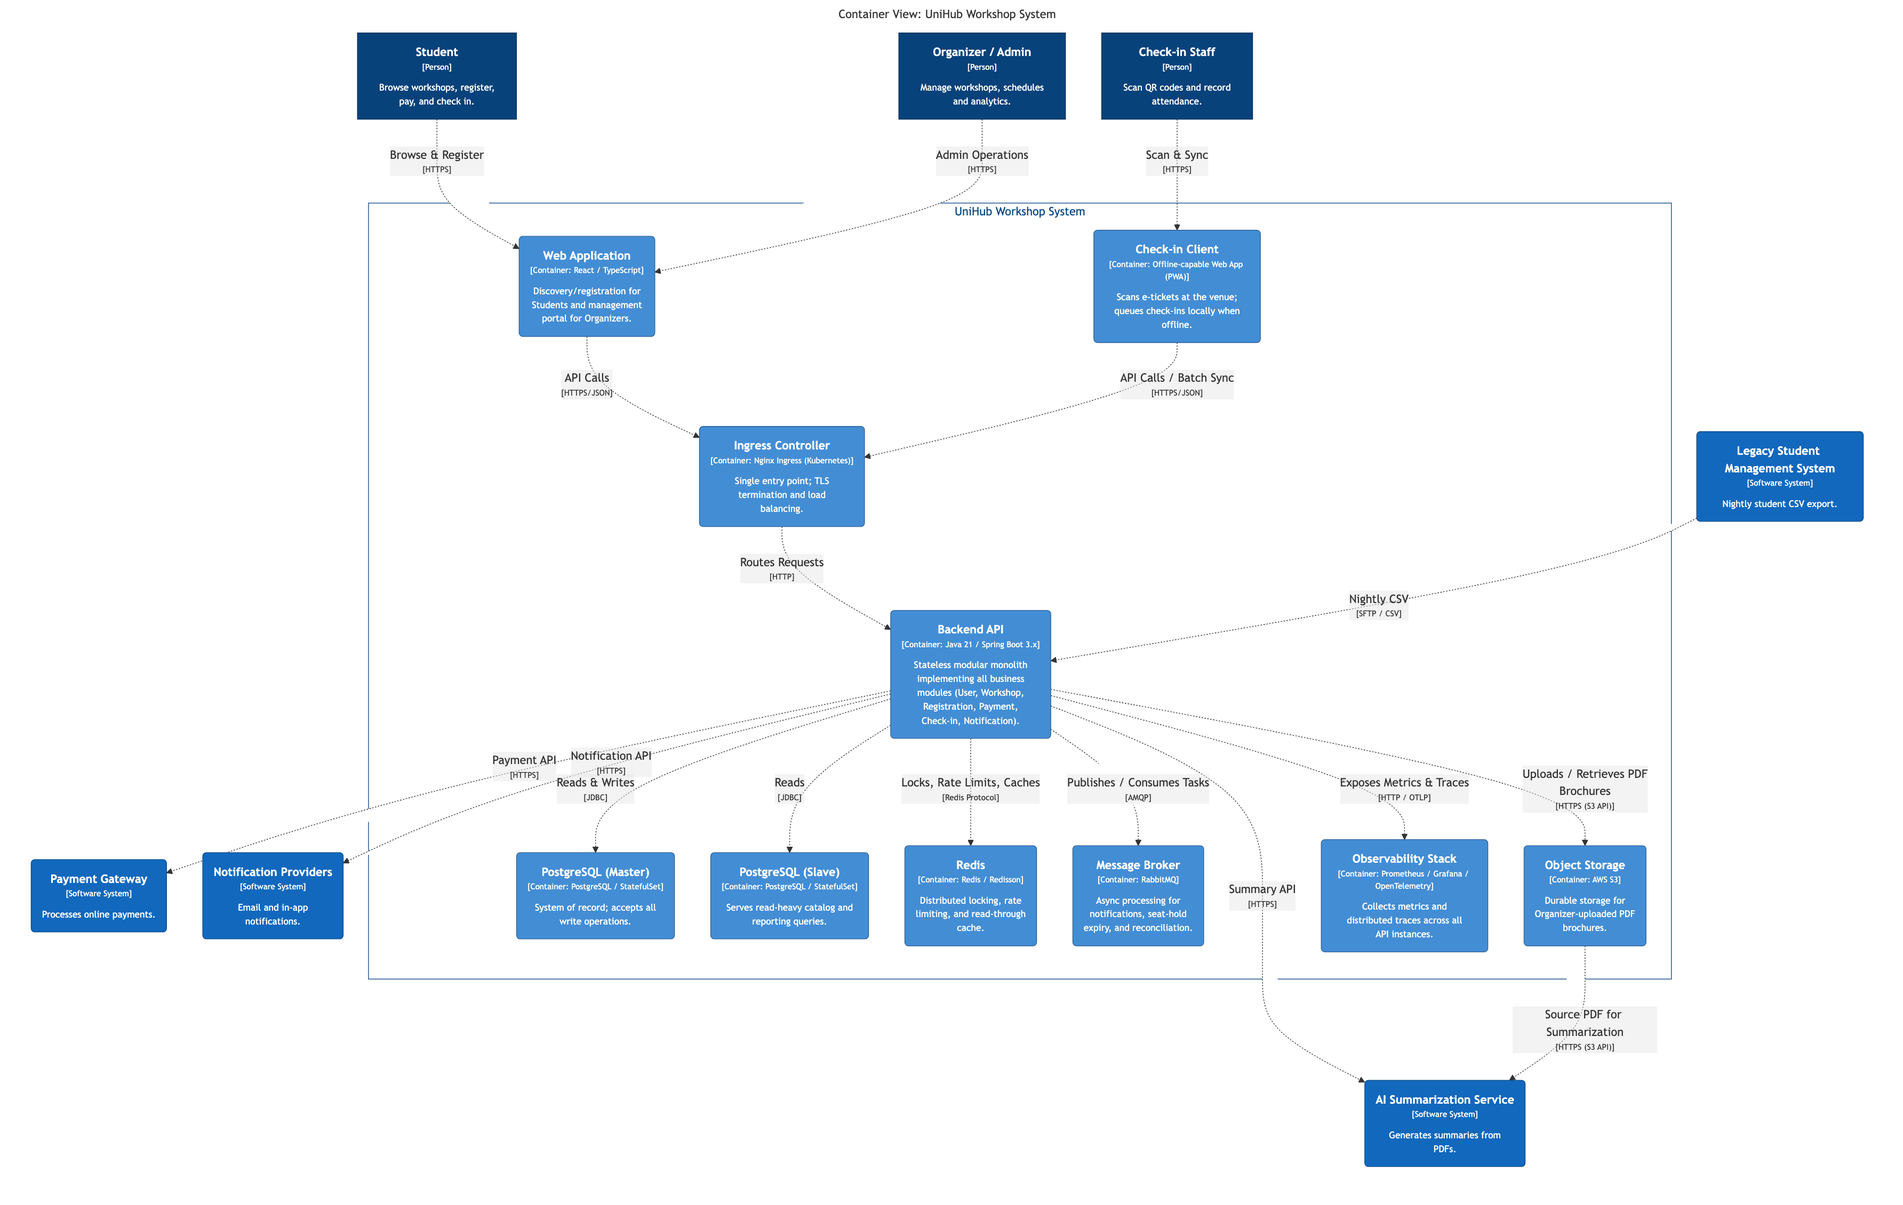
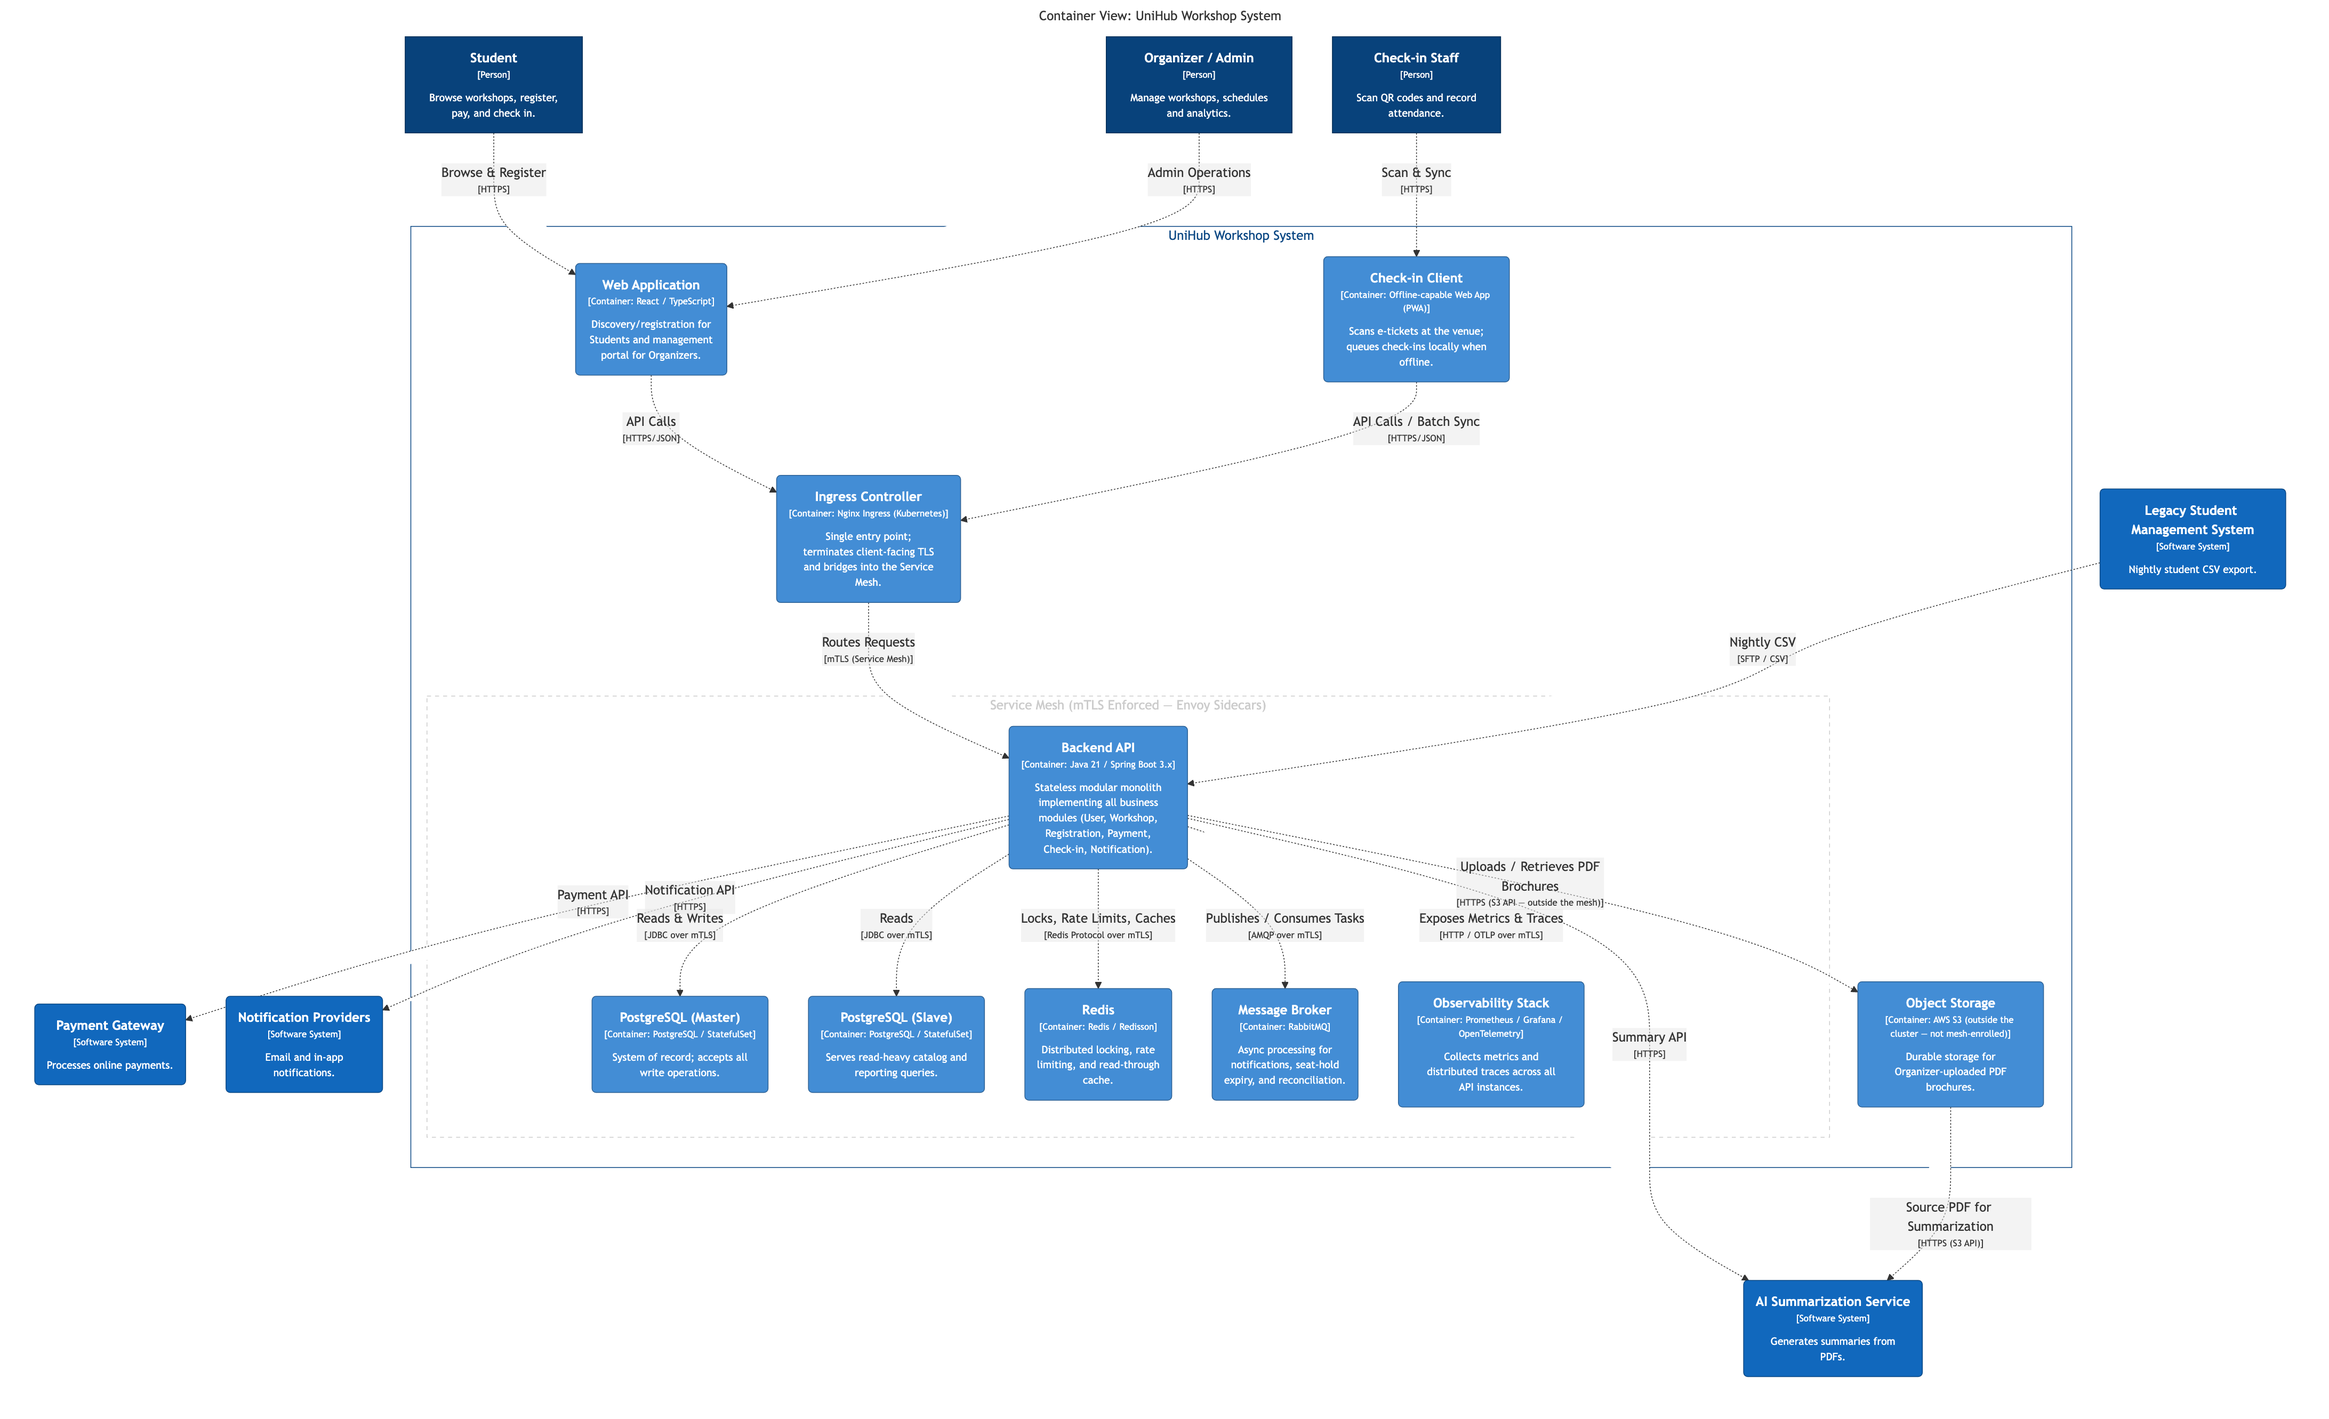
docs(proposal): add service mesh to system

diff --git a/blueprint/proposal.md b/blueprint/proposal.md
@@ -192,17 +192,18 @@ At a component level:
 
 This section explains the major architectural decisions behind the system, the alternatives considered, and the reasoning behind each choice. Specific product/library selections are included because they are the concrete expression of each decision, not because this document is an implementation guide.
 
-| Decision                                                                              | Alternative Considered                                             | Reason                                                                                                                                                                                                                                                                              |
-| :------------------------------------------------------------------------------------ | :----------------------------------------------------------------- | :---------------------------------------------------------------------------------------------------------------------------------------------------------------------------------------------------------------------------------------------------------------------------------- |
-| **Stateless Modular Monolith** (Java 21 / Spring Boot 3.x)                            | Microservices from day one                                         | A single, well-modularized service is significantly faster to build and operate correctly at this project's scope, while the module boundaries keep the door open to splitting into microservices later if the system's scale or team structure warrants it.                        |
-| **Relational database with a single write authority and read replicas** (PostgreSQL)  | A NoSQL document store                                             | The system's core correctness requirements — no double-booked seats, no duplicate payments — depend on strong transactional guarantees that a relational database provides more directly than most NoSQL alternatives.                                                              |
-| **A shared coordination and caching layer** (Redis)                                   | Relying on in-process/local locking only                           | Because the system runs as multiple parallel instances, any coordination mechanism (such as a lock on seat availability) must be visible to all instances at once — a local, in-process lock cannot provide that.                                                                   |
-| **An asynchronous task queue** (RabbitMQ)                                             | Handling all background work synchronously or via periodic polling | Seat-hold expiry and notification delivery are time-sensitive but should not block the request that triggered them; a message queue lets this work happen reliably in the background instead.                                                                                       |
-| **Container orchestration platform** (Kubernetes, run locally via Minikube)           | Docker Compose                                                     | The project's reliability goals — automatic recovery from instance failure, and running multiple instances of both the application and the database — are native capabilities of an orchestration platform, and are the intended target environment even at proof-of-concept scale. |
-| **Structured observability stack** (metrics dashboards + distributed request tracing) | Relying on application logs only                                   | At the target scale, diagnosing an issue from logs alone across many parallel instances is impractical; dashboards and request-level tracing are necessary to understand system behavior during a live registration peak.                                                           |
-| **Fault-isolation around the payment gateway** (circuit breaker pattern)              | Calling the gateway directly with retries only                     | The SRS explicitly requires that a payment gateway outage must not degrade unrelated functionality; a fault-isolation mechanism is the standard way to contain that failure to the payment path only.                                                                               |
-| **Managed object storage for uploaded files** (AWS S3)                                | Storing PDF brochures as BLOBs in PostgreSQL                       | Large binary files degrade database performance and bloat backups; a dedicated object store keeps the transactional database focused on structured data while giving the AI summarization step direct, durable access to the source file.                                          |
-| **Integration testing against real infrastructure** (containerized test dependencies) | In-memory test substitutes                                         | The behaviors that matter most (locking, transaction isolation) are specific to the real database and coordination layer; an in-memory substitute would not reliably exercise these behaviors.                                                                                      |
+| Decision                                                                              | Alternative Considered                                                              | Reason                                                                                                                                                                                                                                                                              |
+| :------------------------------------------------------------------------------------ | :---------------------------------------------------------------------------------- | :---------------------------------------------------------------------------------------------------------------------------------------------------------------------------------------------------------------------------------------------------------------------------------- |
+| **Stateless Modular Monolith** (Java 21 / Spring Boot 3.x)                            | Microservices from day one                                                          | A single, well-modularized service is significantly faster to build and operate correctly at this project's scope, while the module boundaries keep the door open to splitting into microservices later if the system's scale or team structure warrants it.                        |
+| **Relational database with a single write authority and read replicas** (PostgreSQL)  | A NoSQL document store                                                              | The system's core correctness requirements — no double-booked seats, no duplicate payments — depend on strong transactional guarantees that a relational database provides more directly than most NoSQL alternatives.                                                              |
+| **A shared coordination and caching layer** (Redis)                                   | Relying on in-process/local locking only                                            | Because the system runs as multiple parallel instances, any coordination mechanism (such as a lock on seat availability) must be visible to all instances at once — a local, in-process lock cannot provide that.                                                                   |
+| **An asynchronous task queue** (RabbitMQ)                                             | Handling all background work synchronously or via periodic polling                  | Seat-hold expiry and notification delivery are time-sensitive but should not block the request that triggered them; a message queue lets this work happen reliably in the background instead.                                                                                       |
+| **Container orchestration platform** (Kubernetes, run locally via Minikube)           | Docker Compose                                                                      | The project's reliability goals — automatic recovery from instance failure, and running multiple instances of both the application and the database — are native capabilities of an orchestration platform, and are the intended target environment even at proof-of-concept scale. |
+| **Structured observability stack** (metrics dashboards + distributed request tracing) | Relying on application logs only                                                    | At the target scale, diagnosing an issue from logs alone across many parallel instances is impractical; dashboards and request-level tracing are necessary to understand system behavior during a live registration peak.                                                           |
+| **Fault-isolation around the payment gateway** (circuit breaker pattern)              | Calling the gateway directly with retries only                                      | The SRS explicitly requires that a payment gateway outage must not degrade unrelated functionality; a fault-isolation mechanism is the standard way to contain that failure to the payment path only.                                                                               |
+| **Managed object storage for uploaded files** (AWS S3)                                | Storing PDF brochures as BLOBs in PostgreSQL                                        | Large binary files degrade database performance and bloat backups; a dedicated object store keeps the transactional database focused on structured data while giving the AI summarization step direct, durable access to the source file.                                           |
+| **Zero-Trust internal network via Service Mesh** (Istio + Envoy sidecar proxies)      | Trusting the cluster network as an implicit boundary (unencrypted internal traffic) | The SRS only requires encryption for client-facing traffic; this goes beyond that baseline deliberately, to demonstrate a defense-in-depth security posture as part of this project's portfolio scope — accepting the added resource and latency cost in exchange.                  |
+| **Integration testing against real infrastructure** (containerized test dependencies) | In-memory test substitutes                                                          | The behaviors that matter most (locking, transaction isolation) are specific to the real database and coordination layer; an in-memory substitute would not reliably exercise these behaviors.                                                                                      |
 
 ---
 
@@ -290,13 +291,13 @@ The project is delivered incrementally, with each phase building on a working sy
 
 ## 16. Risk Assessment & Mitigation
 
-| Risk                                                                                                                                                             | Impact                                                          | Mitigation                                                                                                                                                                                                                                        |
-| :--------------------------------------------------------------------------------------------------------------------------------------------------------------- | :-------------------------------------------------------------- | :------------------------------------------------------------------------------------------------------------------------------------------------------------------------------------------------------------------------------------------------ |
-| **High local resource consumption** — running a full Kubernetes cluster, database replicas, messaging, and monitoring components together on developer hardware. | Development environment instability, slow iteration.            | Constrain resource usage per component during day-to-day development; run the full topology at scale only for dedicated load-test sessions.                                                                                                       |
-| **Learning curve for infrastructure-heavy tooling** — container-based integration testing, orchestration, and tracing are each non-trivial subsystems.           | Slower-than-planned delivery of infrastructure-adjacent work.   | Build and validate core business logic first against a simpler local setup, then progressively introduce infrastructure-realistic testing and deployment once functional correctness is established (reflected in the phased plan in Section 15). |
-| **Coordination edge cases** — timing issues between the coordination layer and the storage-level safeguard during seat reservation.                              | Rare, hard-to-reproduce correctness issues under concurrency.   | Treat the storage-level safeguard as the non-negotiable final guarantee, independent of the coordination layer, so a coordination-layer issue cannot by itself cause an oversold seat.                                                            |
-| **Payment gateway sandbox behavior may not fully mirror production timing.**                                                                                     | Fault-isolation thresholds tuned in sandbox may not generalize. | Treat scheduled reconciliation, not gateway callbacks, as the authoritative source of truth for payment status, so correctness does not depend on realistic callback timing.                                                                      |
-| **Single-developer delivery bandwidth** across a wide technical surface.                                                                                         | Schedule risk on lower-priority scope.                          | Prioritize registration, payment, and concurrency correctness as the critical path; treat AI summarization and additional notification channels as scope delivered after core correctness is proven.                                              |
+| Risk                                                                                                                                                                                       | Impact                                                          | Mitigation                                                                                                                                                                                                                                        |
+| :----------------------------------------------------------------------------------------------------------------------------------------------------------------------------------------- | :-------------------------------------------------------------- | :------------------------------------------------------------------------------------------------------------------------------------------------------------------------------------------------------------------------------------------------ |
+| **High local resource consumption** — running a full Kubernetes cluster, database replicas, messaging, monitoring, and a Service Mesh sidecar on every pod together on developer hardware. | Development environment instability, slow iteration.            | Constrain resource usage per component during day-to-day development; run the full topology at scale only for dedicated load-test sessions.                                                                                                       |
+| **Learning curve for infrastructure-heavy tooling** — container-based integration testing, orchestration, and tracing are each non-trivial subsystems.                                     | Slower-than-planned delivery of infrastructure-adjacent work.   | Build and validate core business logic first against a simpler local setup, then progressively introduce infrastructure-realistic testing and deployment once functional correctness is established (reflected in the phased plan in Section 15). |
+| **Coordination edge cases** — timing issues between the coordination layer and the storage-level safeguard during seat reservation.                                                        | Rare, hard-to-reproduce correctness issues under concurrency.   | Treat the storage-level safeguard as the non-negotiable final guarantee, independent of the coordination layer, so a coordination-layer issue cannot by itself cause an oversold seat.                                                            |
+| **Payment gateway sandbox behavior may not fully mirror production timing.**                                                                                                               | Fault-isolation thresholds tuned in sandbox may not generalize. | Treat scheduled reconciliation, not gateway callbacks, as the authoritative source of truth for payment status, so correctness does not depend on realistic callback timing.                                                                      |
+| **Single-developer delivery bandwidth** across a wide technical surface.                                                                                                                   | Schedule risk on lower-priority scope.                          | Prioritize registration, payment, and concurrency correctness as the critical path; treat AI summarization and additional notification channels as scope delivered after core correctness is proven.                                              |
 
 ---
 
